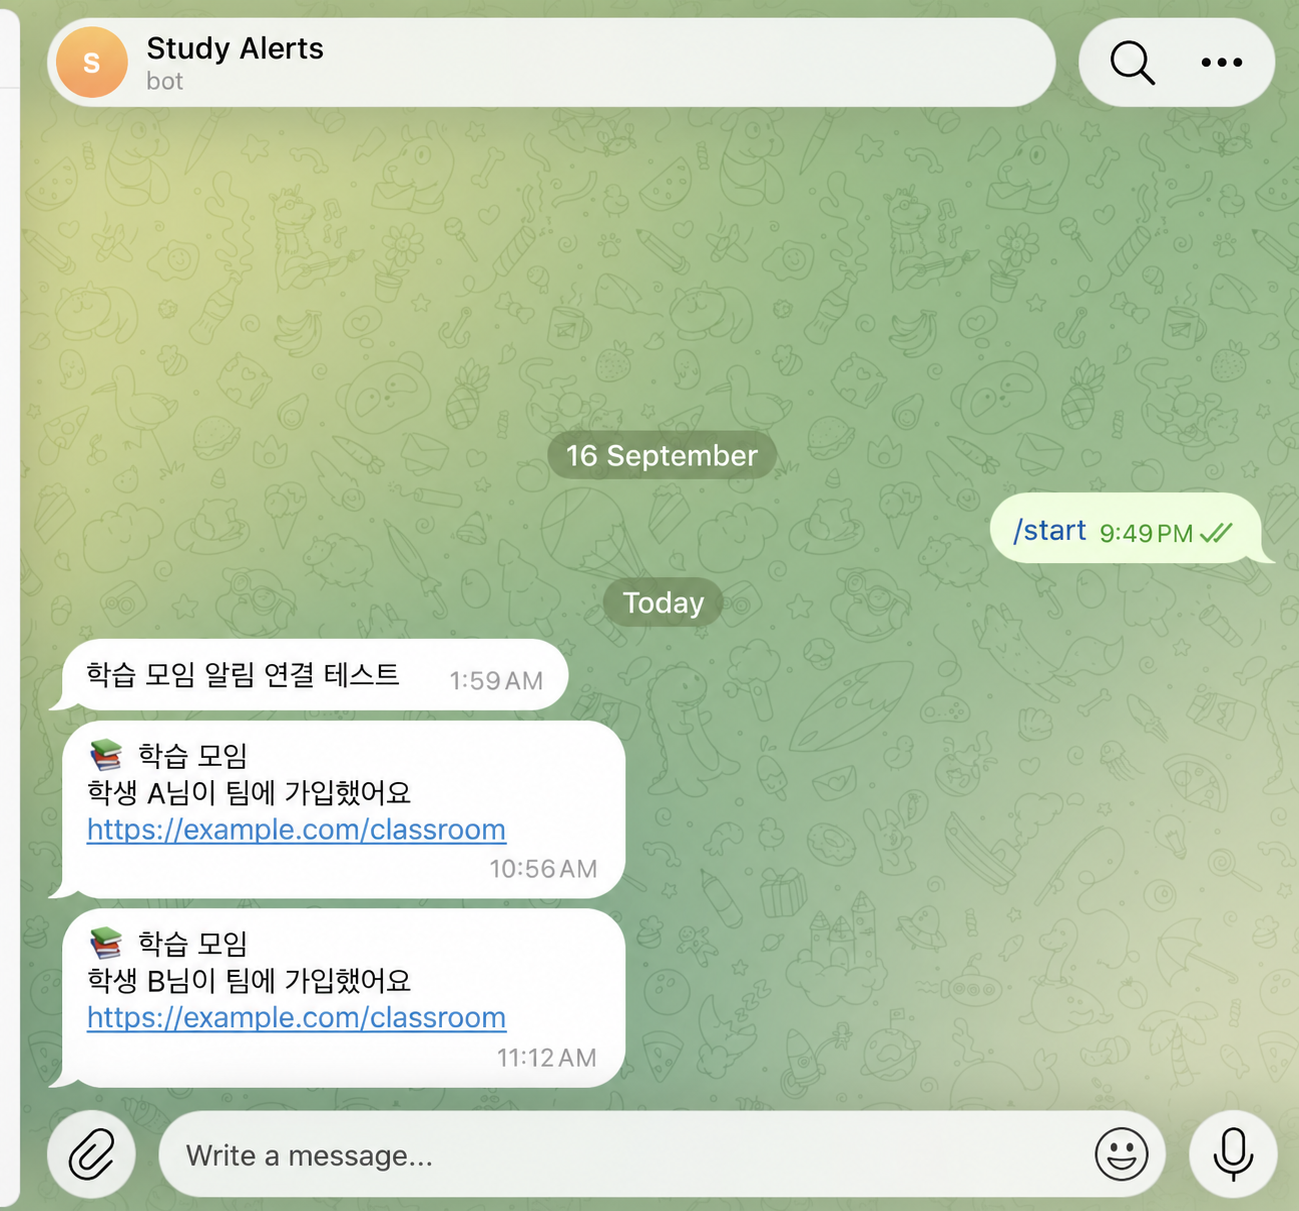
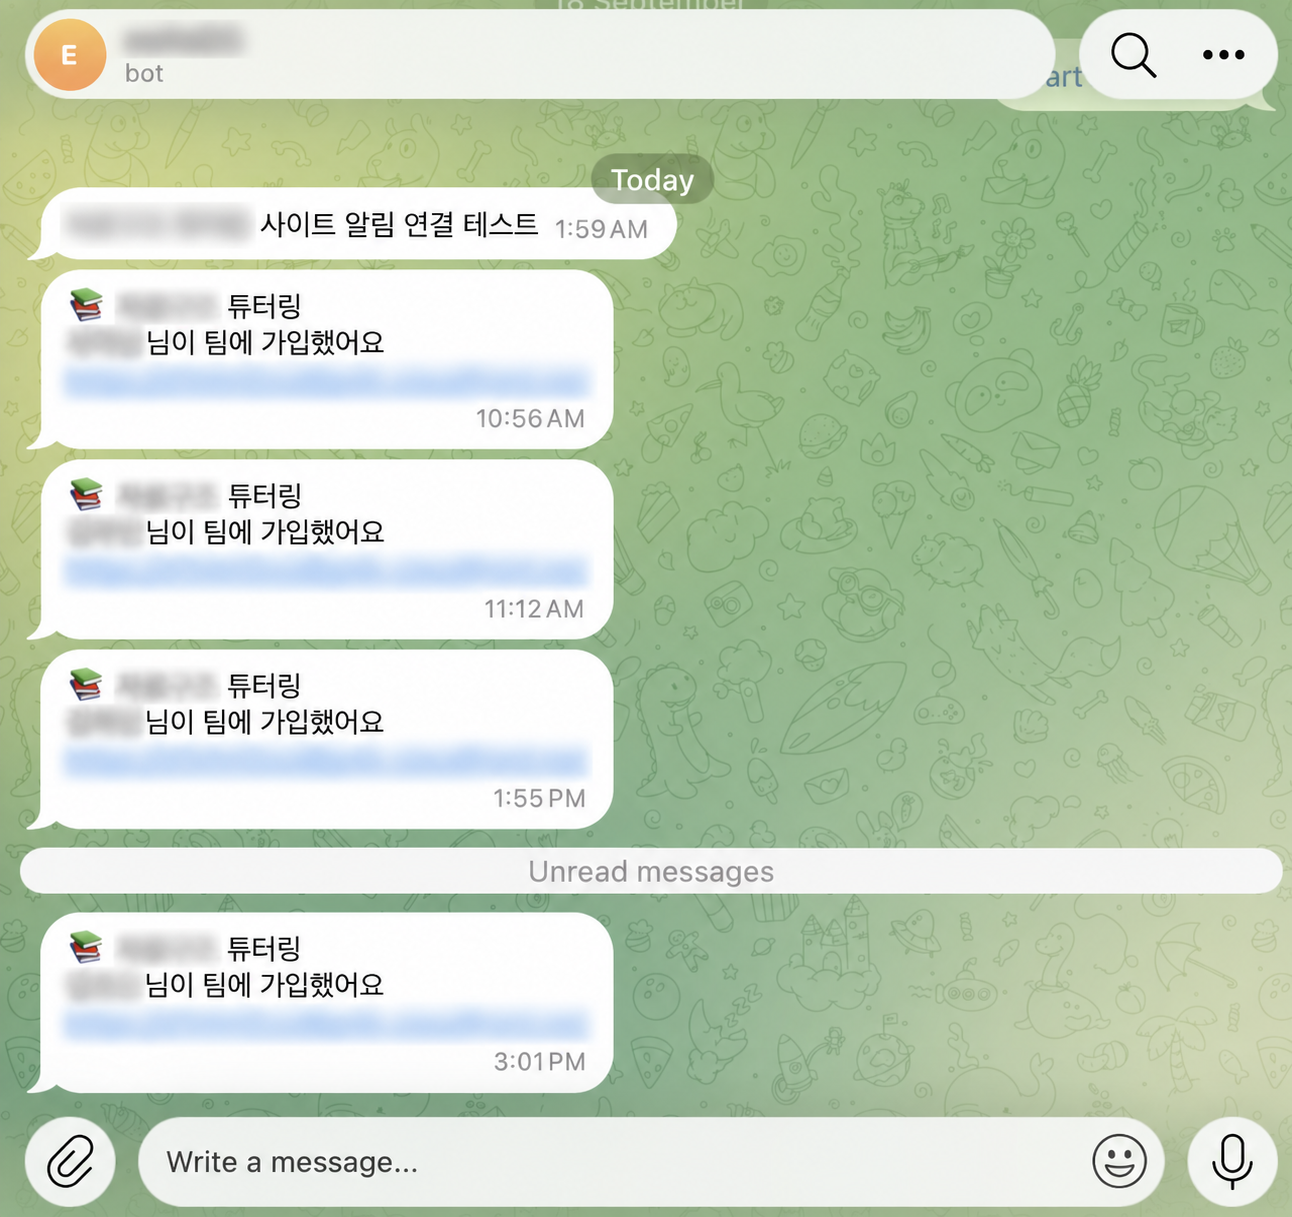
Update Telegram example with blurred identifiers

diff --git a/README.md b/README.md
@@ -57,9 +57,9 @@
 
 튜티가 가입하거나 참석 여부를 답하고, 질문·답글·보고서·퀴즈 답안을 제출하거나 진도를 기록하면 기존 수업의 튜터에게 알림이 갑니다. 알림에는 활동 종류와 작성자만 담고 질문·보고서 본문과 퀴즈 답안은 보내지 않습니다. 다른 튜터의 수업은 별도 봇 설정이 필요합니다. 연결 방법은 [배포 문서](docs/DEPLOYMENT.md)에 있습니다.
 
-<p align="center"><img src="docs/media/telegram-alerts.png" alt="봇 이름, 학생 이름, 사이트 이름과 주소를 예시로 바꾼 Telegram 알림 화면" width="460"></p>
+<p align="center"><img src="docs/media/telegram-alerts.png" alt="봇 이름, 학생 이름, 사이트 이름과 주소를 블러 처리한 Telegram 가입 알림 화면" width="460"></p>
 
-<p align="center"><sub>공개용 이미지: 봇·학생·서비스 이름과 주소를 모두 예시 값으로 바꿨습니다.</sub></p>
+<p align="center"><sub>공개용 이미지: 봇·학생·서비스 이름과 주소를 블러 처리했습니다.</sub></p>
 
 ## 빠른 시작
 
